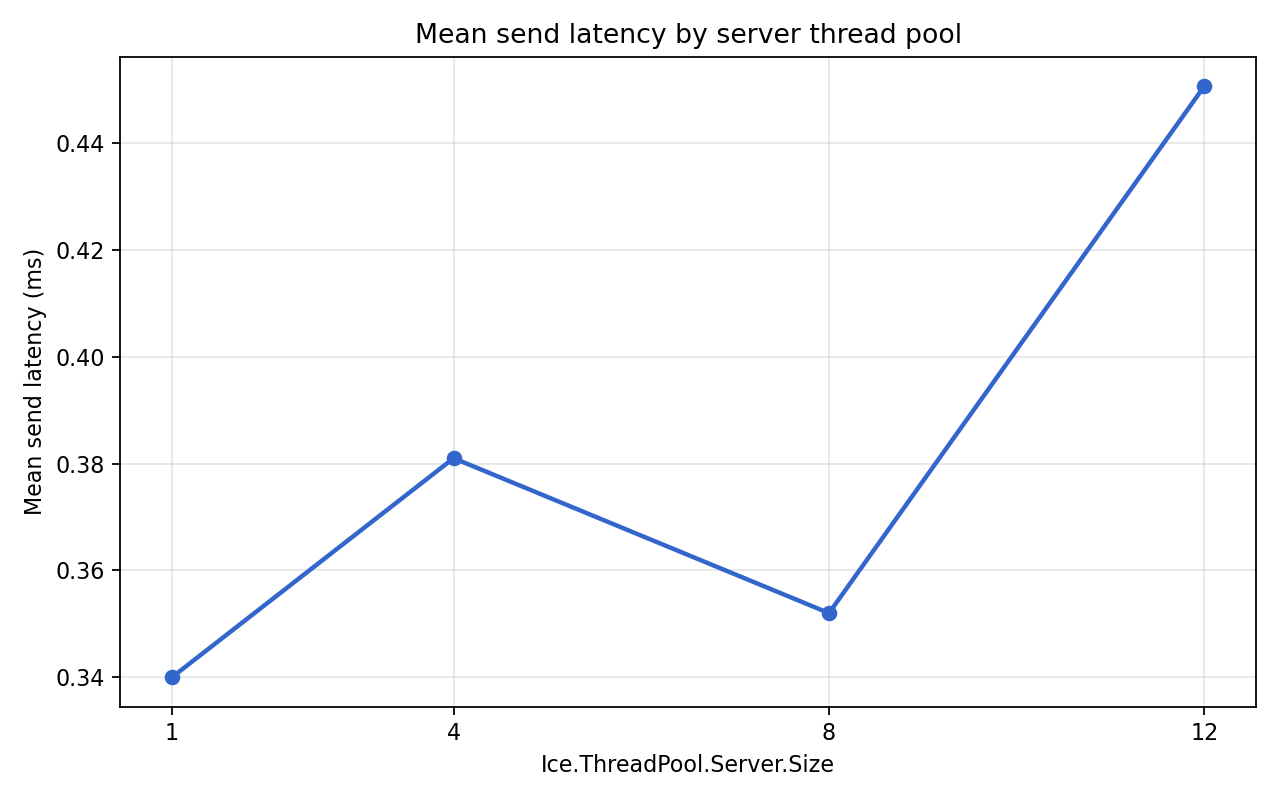
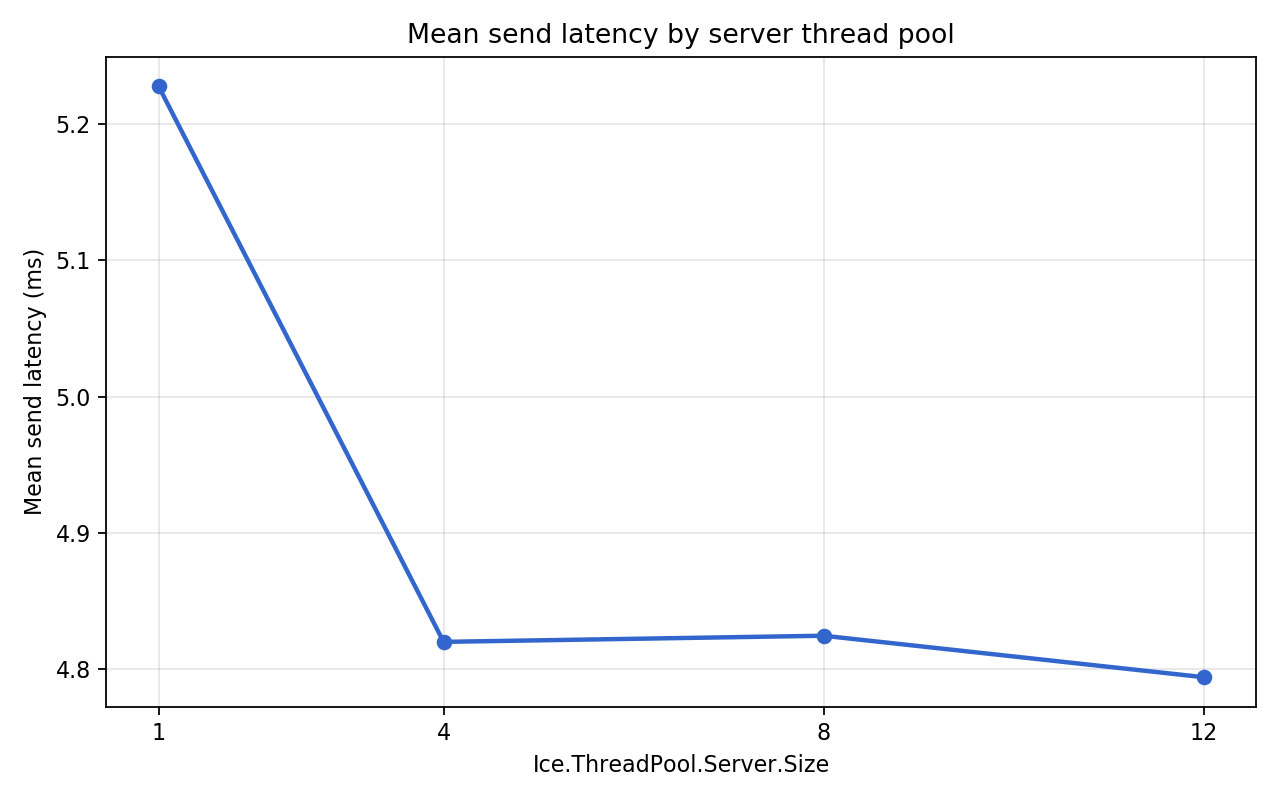
lab run results

diff --git a/results/results.md b/results/results.md
@@ -1,18 +1,5 @@
 ### Test executed
 
-**Note:** This test was executed in a UTM Ubuntu for ARM virtual machine on a
-macOS host. The guest exposes the following environment:
-
-| |  |
-|---|---|
-| Host | macOS GoldenGate 27.0.1 |
-| Virtualization | UTM QEMU |
-| architecture | ARM64 |
-| VM CPUs | 10 |
-| VM memory | 3.3 GiB |
-| Ubuntu | Ubuntu 26.04.1 LTS |
-
-
 Build:
 
 ```bash
@@ -90,71 +77,21 @@ Group9/1/CRITICAL-2026-11-14-03-27-18-865.jpg
 
 ### Results summary
 
-Results are saved in `experiments/results.csv`:
+Results are saved in `experiments/results.csv`.
 
-| Thread pool size | Run | Client | Average send latency (ms) | Throughput (msg/sec) |
-|---:|---:|---:|---:|---:|
-| 1 | 1 | 1 | 0.300 | 1704.16 |
-| 1 | 1 | 2 | 0.247 | 1911.18 |
-| 1 | 1 | 3 | 0.235 | 2085.18 |
-| 1 | 1 | 4 | 0.437 | 1418.50 |
-| 1 | 2 | 1 | 0.413 | 1349.84 |
-| 1 | 2 | 2 | 0.471 | 1220.64 |
-| 1 | 2 | 3 | 0.265 | 1942.72 |
-| 1 | 2 | 4 | 0.321 | 1867.58 |
-| 1 | 3 | 1 | 0.386 | 1522.69 |
-| 1 | 3 | 2 | 0.243 | 2076.76 |
-| 1 | 3 | 3 | 0.259 | 2144.59 |
-| 1 | 3 | 4 | 0.503 | 1350.81 |
-| 4 | 1 | 1 | 0.438 | 1498.93 |
-| 4 | 1 | 2 | 0.437 | 1479.81 |
-| 4 | 1 | 3 | 0.329 | 1636.02 |
-| 4 | 1 | 4 | 0.392 | 1560.30 |
-| 4 | 2 | 1 | 0.473 | 1419.24 |
-| 4 | 2 | 2 | 0.460 | 1390.06 |
-| 4 | 2 | 3 | 0.272 | 2013.59 |
-| 4 | 2 | 4 | 0.263 | 2065.94 |
-| 4 | 3 | 1 | 0.431 | 1321.54 |
-| 4 | 3 | 2 | 0.395 | 1340.65 |
-| 4 | 3 | 3 | 0.451 | 1335.31 |
-| 4 | 3 | 4 | 0.231 | 2263.43 |
-| 8 | 1 | 1 | 0.276 | 1975.35 |
-| 8 | 1 | 2 | 0.364 | 1611.80 |
-| 8 | 1 | 3 | 0.401 | 1537.94 |
-| 8 | 1 | 4 | 0.432 | 1475.20 |
-| 8 | 2 | 1 | 0.280 | 1962.84 |
-| 8 | 2 | 2 | 0.291 | 1942.15 |
-| 8 | 2 | 3 | 0.372 | 1684.53 |
-| 8 | 2 | 4 | 0.407 | 1592.21 |
-| 8 | 3 | 1 | 0.292 | 1974.61 |
-| 8 | 3 | 2 | 0.393 | 1638.44 |
-| 8 | 3 | 3 | 0.296 | 1920.71 |
-| 8 | 3 | 4 | 0.420 | 1552.52 |
-| 12 | 1 | 1 | 0.715 | 1010.45 |
-| 12 | 1 | 2 | 0.667 | 1046.98 |
-| 12 | 1 | 3 | 0.645 | 1032.85 |
-| 12 | 1 | 4 | 0.761 | 949.44 |
-| 12 | 2 | 1 | 0.241 | 2253.09 |
-| 12 | 2 | 2 | 0.391 | 1616.11 |
-| 12 | 2 | 3 | 0.447 | 1451.09 |
-| 12 | 2 | 4 | 0.247 | 2196.12 |
-| 12 | 3 | 1 | 0.399 | 1653.10 |
-| 12 | 3 | 2 | 0.326 | 1802.79 |
-| 12 | 3 | 3 | 0.312 | 1864.00 |
-| 12 | 3 | 4 | 0.257 | 2070.97 |
+| Thread pool | Mean latency | Mean throughput | Samples |
+|---:|---:|---:|---:|
+| 1 | 0.340 ms | 1,716.22 msg/sec | 12 |
+| 4 | 0.381 ms | 1,610.40 msg/sec | 12 |
+| 8 | 0.352 ms | 1,739.02 msg/sec | 12 |
+| 12 | 0.451 ms | 1,578.92 msg/sec | 12 |
 
 
-### Plots
+Logs are stored in:
 
-#### Mean send latency
-
-![Mean send latency by server thread pool](./latency-by-thread-pool.png)
-
-#### Mean throughput
-
-![Mean throughput by server thread pool](./throughput-by-thread-pool.png)
-
-
-Logs are stored in `experiments/`.
+```text
+experiments/server-*.log
+experiments/client-*.log
+```
 
 The server and clients exited cleanly after the experiment.
